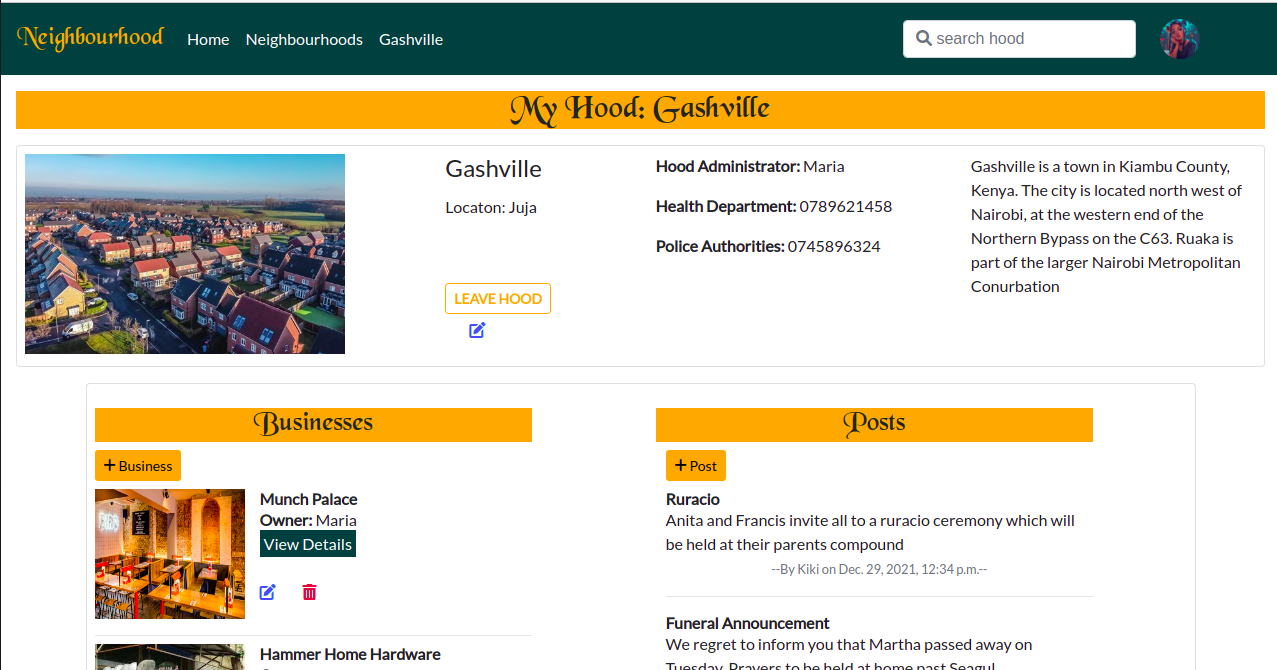
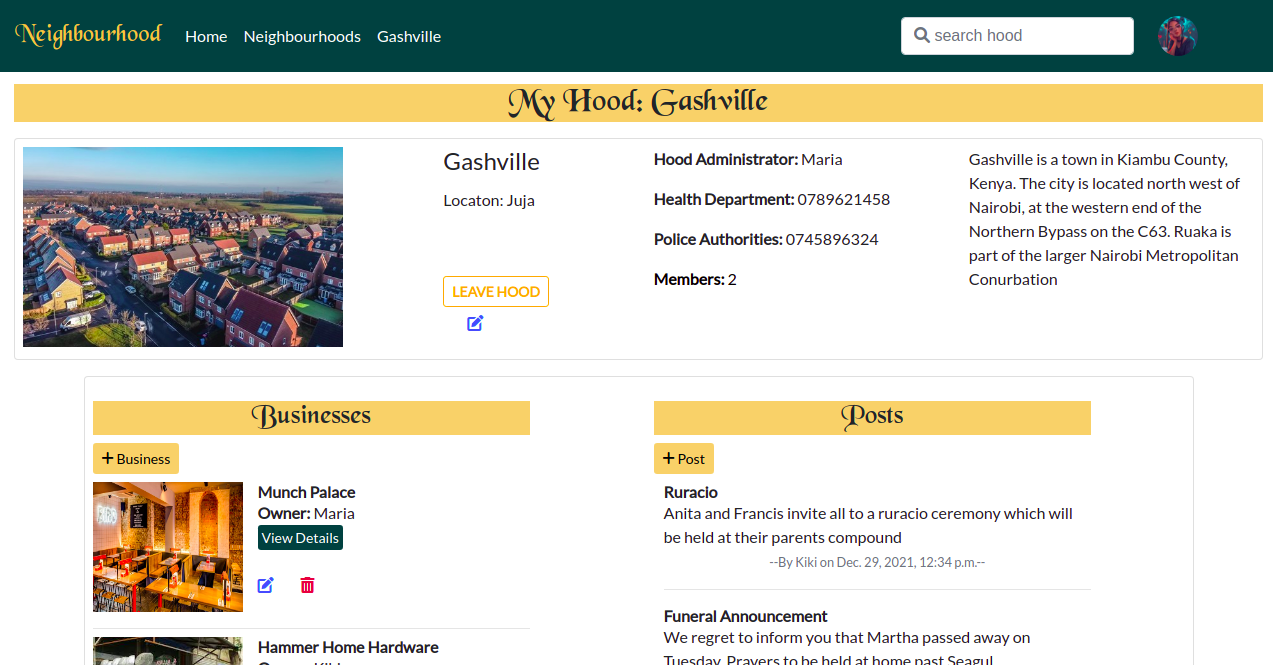
add opacity to background color

diff --git a/neighbour/static/css/style.css b/neighbour/static/css/style.css
@@ -57,18 +57,18 @@ body{
 .nei{
     font-family: 'Ginga', sans-serif;
     font-size: 120px;
-    color: orange;
+    color: rgb(248, 189, 79);;
     padding-top: 0 !important;
     margin-top: 0% !important;
    
 }
 .neig{
     font-family: 'BLKCHCRY', sans-serif;
-    color: orange !important;
+    color: rgb(248, 189, 79) !important;
     font-size: 25px !important;  
 }
 .join{
-    background-color: orange;
+    background-color: rgb(248, 189, 79,0.8);;
    
 }
 footer{
@@ -92,11 +92,11 @@ footer{
    
 }
 .link-color:hover {
-    color: orange !important;
+    color: rgb(248, 189, 79,0.8) !important;
     text-decoration: none;
 }
 .btn-color:hover{
-    background-color: orange !important;
+    background-color: rgb(248, 189, 79,0.8) !important;
 }
 .login{
     width: 100%;
@@ -221,7 +221,7 @@ footer{
     color: black;
 }
 .orange{
-    background-color: orange;
+    background-color: rgb(248, 189, 79,0.8);
     font-family: 'BLKCHCRY', sans-serif;
 }
 .btn-outline-warning {
@@ -263,7 +263,7 @@ a:hover{
     .bus-owner{
         margin-left: 15px;
     }
-    .post-hold,.post-btn{
+    .post-hold{
         margin-left: 10px;
     }
     .trusted{

diff --git a/README.md b/README.md
@@ -26,7 +26,7 @@
 
 ### Installation process
 * Open terminal
-* run `https://github.com/mary-wan/Neighbourhood.git`
+* run ` git clone https://github.com/mary-wan/Neighbourhood.git`
 
 ### Dependancy Installation process
 ```
